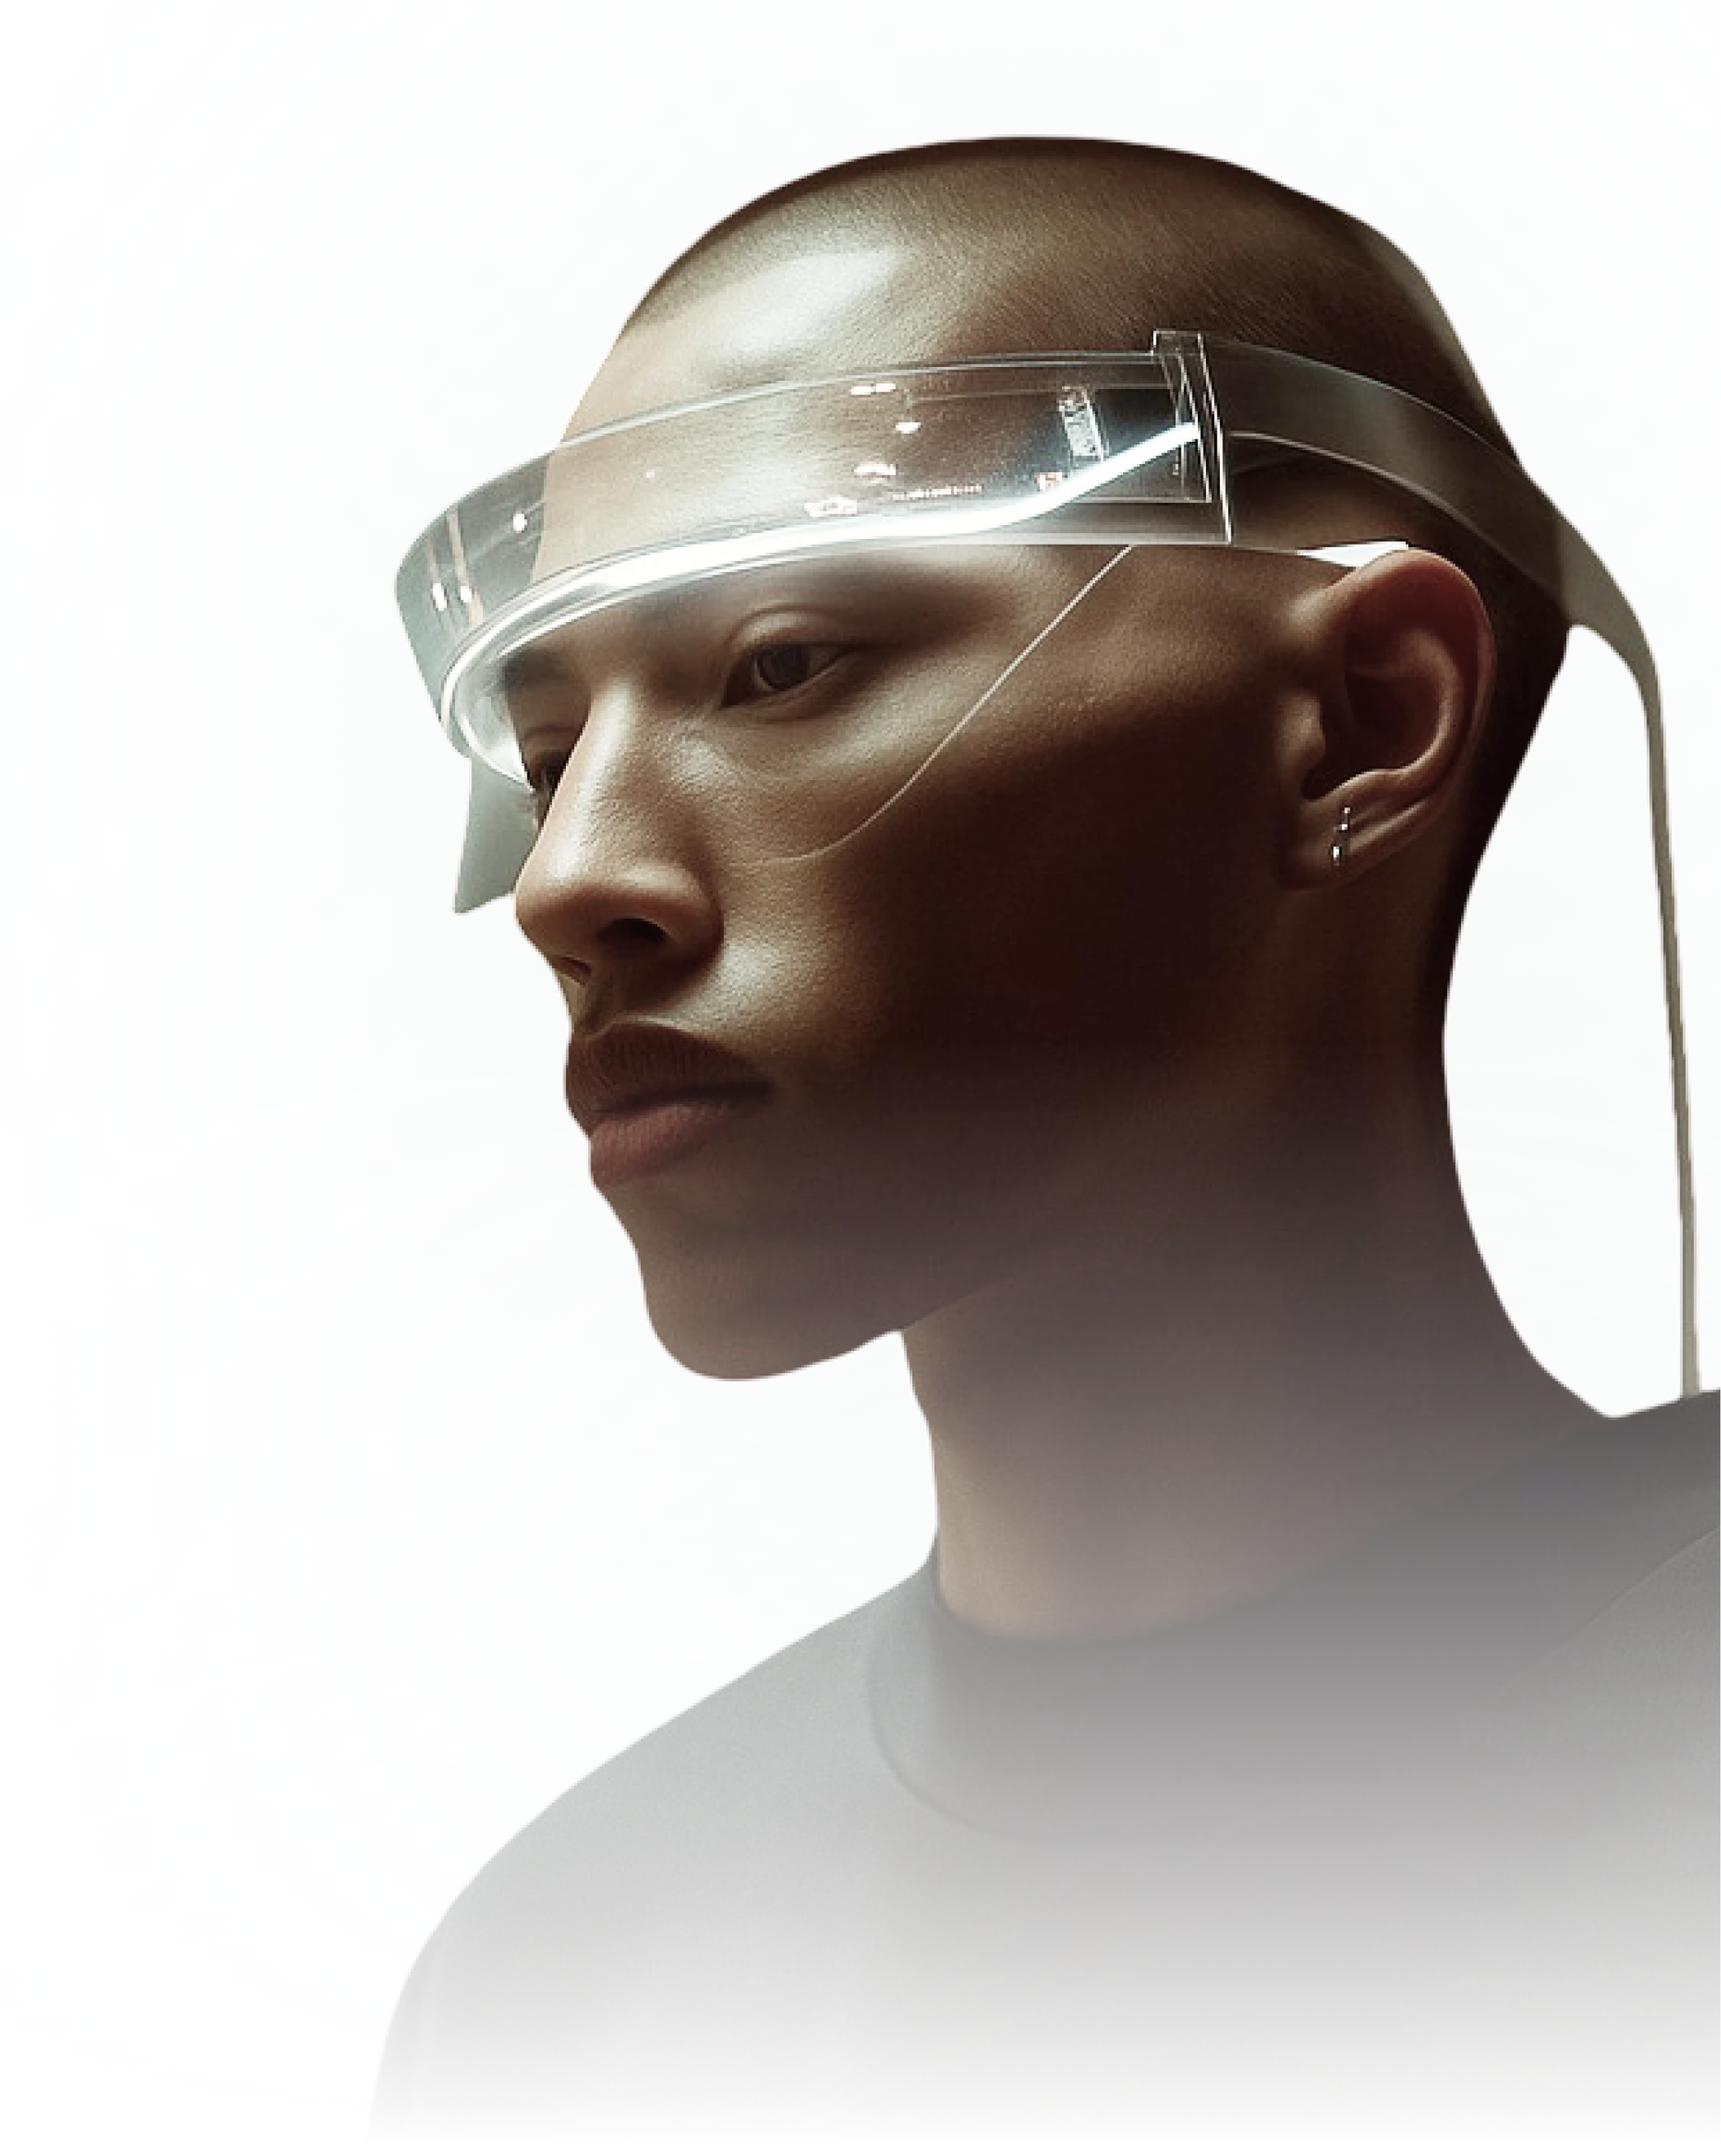
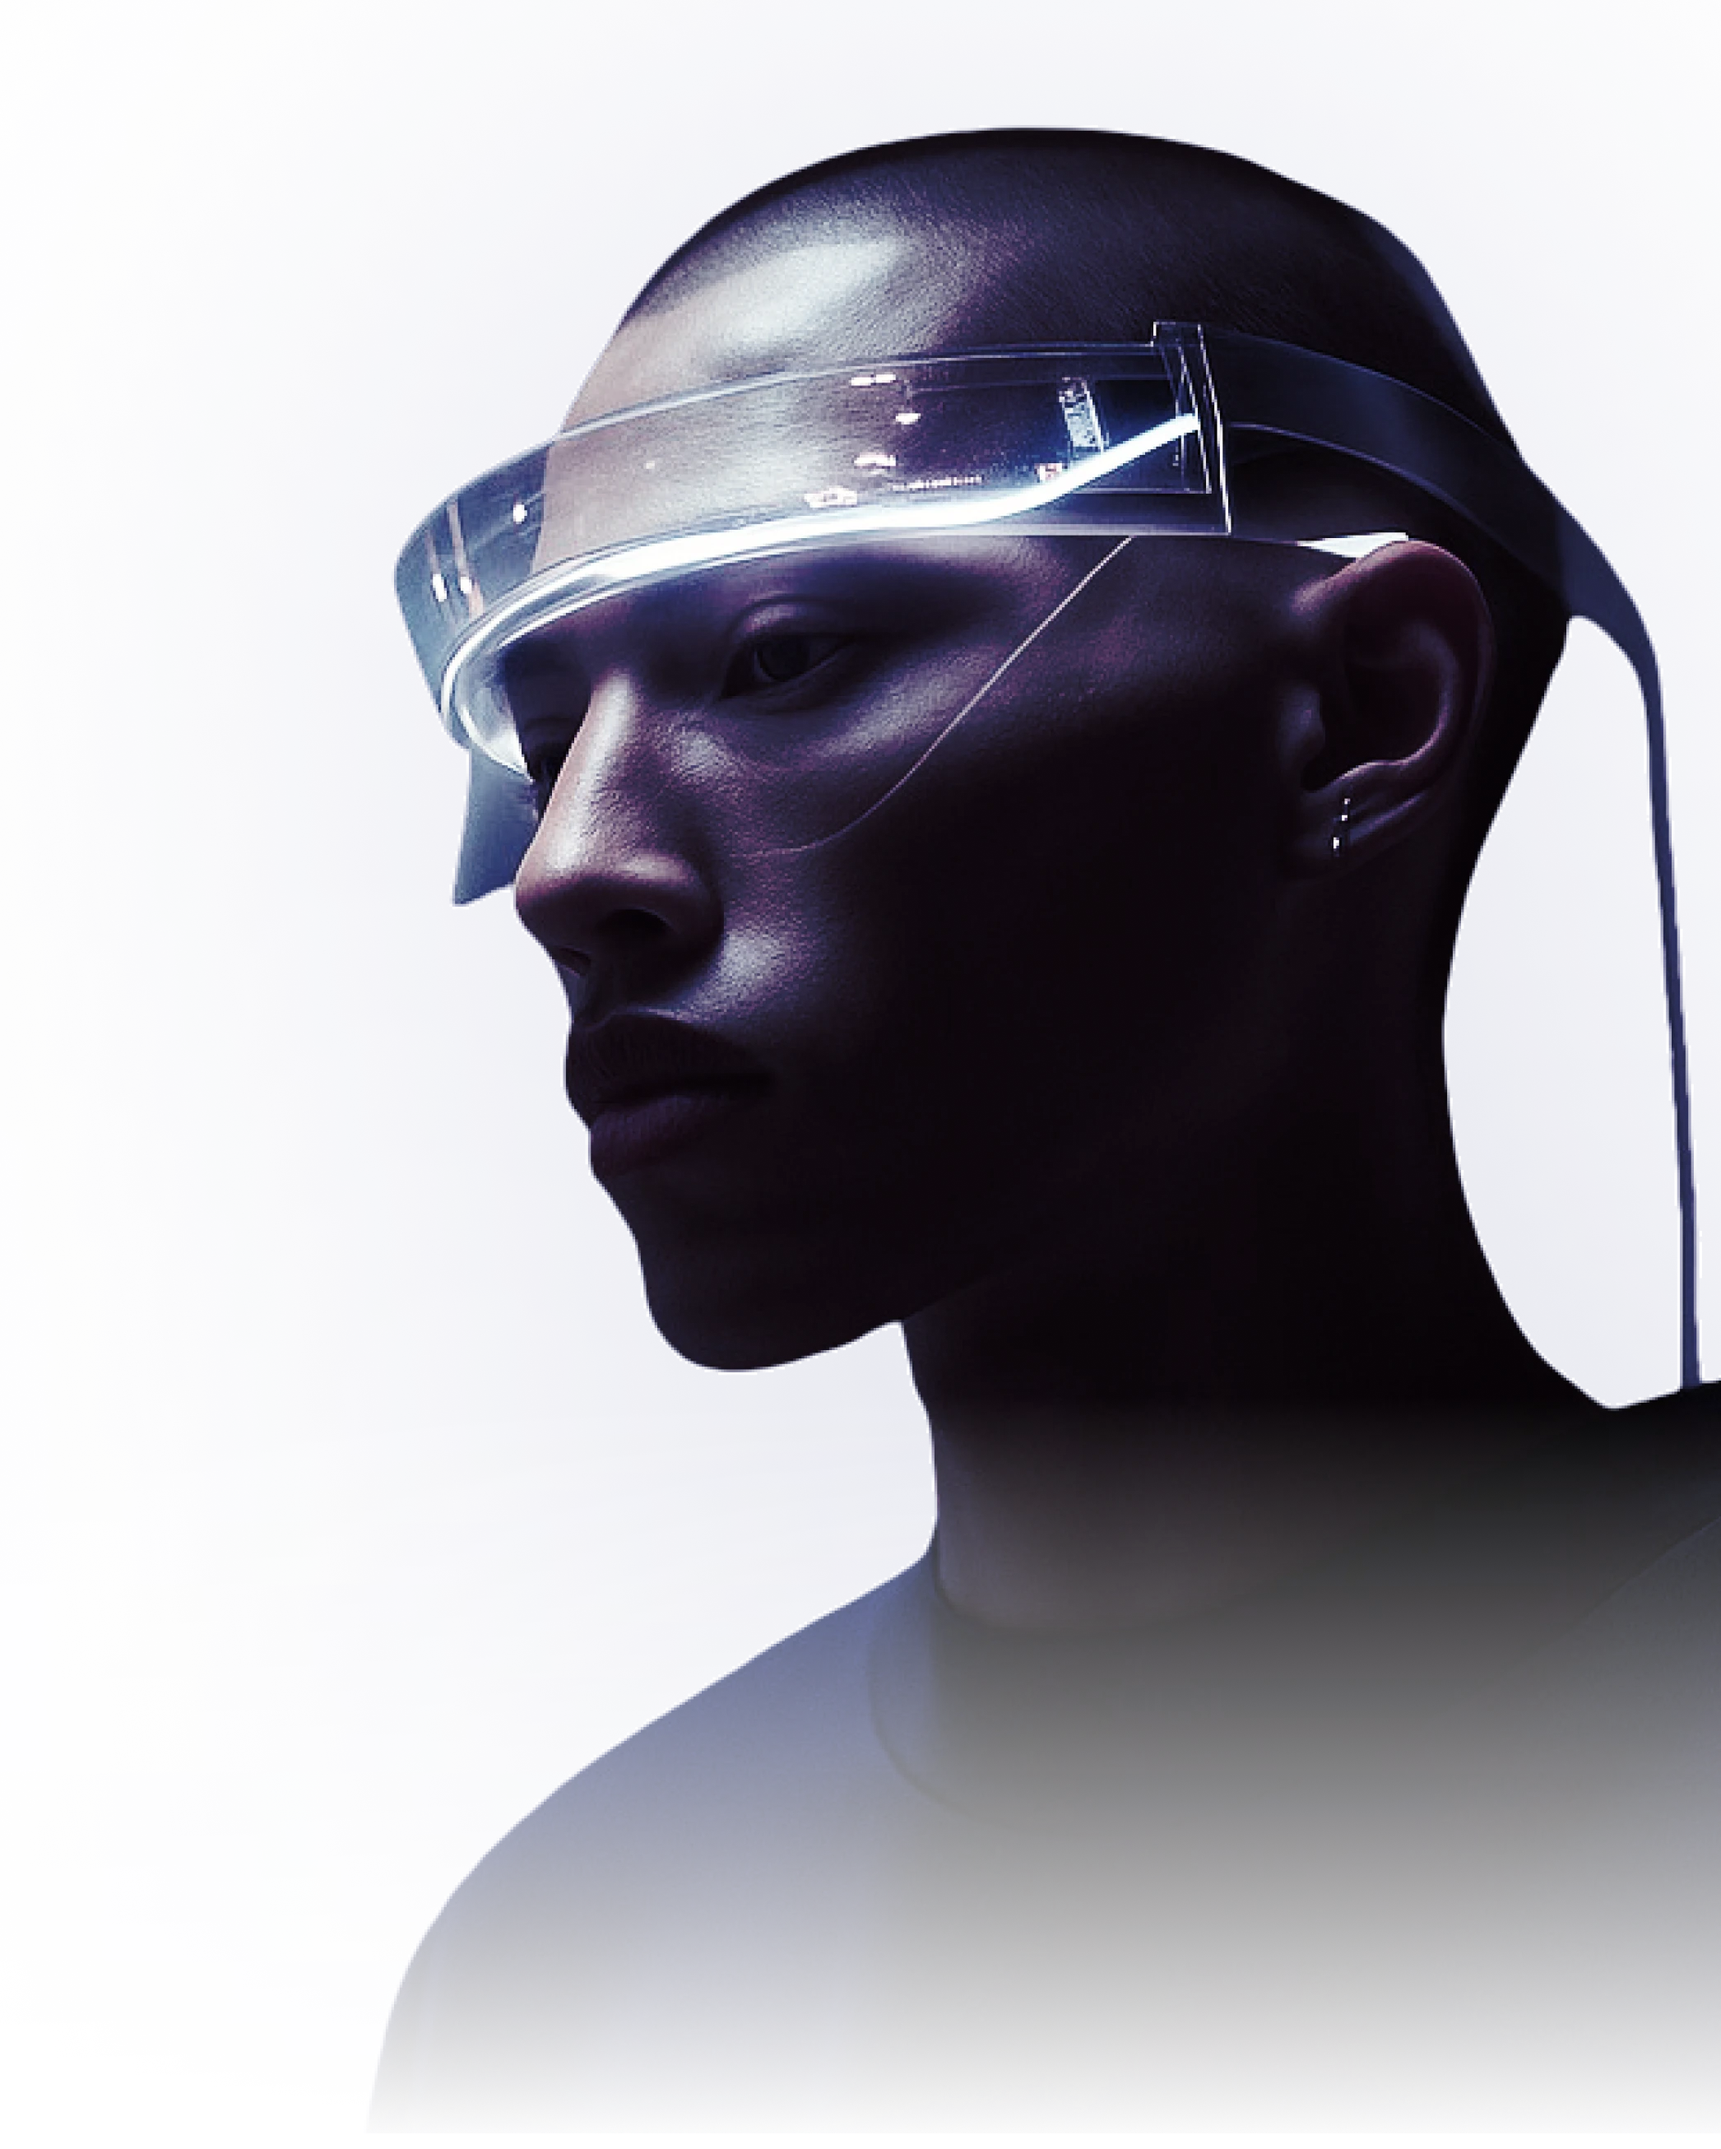
build: section outcomes, update respoansive: page orange

diff --git a/src/scss/_outcomes.scss b/src/scss/_outcomes.scss
@@ -1,0 +1,232 @@
+@use 'base';
+@use 'mixins';
+
+.section-outcomes {
+  background-color: #FF9C00;
+  padding-top: 53px;
+  padding-bottom: 100px;
+  @include mixins.respond(lg) {
+    padding-top: 32px;
+    padding-bottom: 50px;
+  }
+}
+
+.outcomes {
+  display: flex;
+  flex-direction: column;
+  gap: 80px;
+  @include mixins.respond(lg) {
+    gap: 40px;
+  }
+  @include mixins.respond(sm) {
+    gap: 32px;
+  }
+  .heading__h2 {
+    color: #FFF;
+    font-family: base.$font-primary;
+    font-size: 110px;
+    font-style: normal;
+    font-weight: 700;
+    line-height: 100%; /* 110px */
+    letter-spacing: -1.1px;
+    text-transform: uppercase;
+    margin-top: 34px;
+    @include mixins.respond(xl) {
+      font-size: 82px;
+    }
+    @include mixins.respond(lg) {
+      margin-top: 16px;
+    }
+    @include mixins.respond(sm) {
+      font-size: 40px;
+      letter-spacing: -0.6px;
+      margin-top: unset;
+      width: 100%;
+    }
+    &__accent {
+      color: #BC002C;
+    }
+    &__inner {
+      display: flex;
+      gap: 30px;
+      align-items: flex-end;
+      @include mixins.respond(sm) {
+        flex-direction: column-reverse;
+        align-items: flex-start;
+        gap: 8px;
+      }
+      .system__label {
+        margin-bottom: 26px;
+        @include mixins.respond(lg) {
+          margin-bottom: 16px;
+        }
+        @include mixins.respond(sm) {
+          margin-bottom: 0;
+        }
+      }
+    }
+  }
+  &__head {
+    position: relative;
+    z-index: 1;
+    &__wrap {
+      display: flex;
+      align-items: flex-start;
+      gap: 8px;
+      @include mixins.respond(sm) {
+        flex-direction: column-reverse;
+        align-items: flex-end;
+      }
+      .system__number {
+        margin-bottom: -34px;
+      }
+    }
+    &__ornament {
+      max-width: 400px;
+      width: 100%;
+
+      position: absolute;
+      top: -18px;
+      right: 0;
+      z-index: -1;
+
+      @include mixins.respond(sm) {
+        right: -89px;
+      }
+    }
+  }
+  &__list {
+    display: flex;
+    flex-direction: column;
+    gap: 16px;
+    position: relative;
+    z-index: 1;
+  }
+  &__item {
+    background-color: #FFF9EB;
+    padding: 32px;
+    display: flex;
+    align-items: center;
+    justify-content: space-between;
+    gap: 16px;
+    @include mixins.respond(lg) {
+      padding: 16px;
+    }
+    @include mixins.respond(sm) {
+      flex-direction: column;
+    }
+    &__content {
+      display: flex;
+      justify-content: space-between;
+      max-width: 1112px;
+      width: 100%;
+      @include mixins.respond(xl) {
+        max-width: 780px;
+      }
+      @include mixins.respond(lg) {
+        flex-direction: column;
+        gap: 8px;
+      }
+    }
+    &__subtext {
+      max-width: 912px;
+      display: flex;
+      justify-content: space-between;
+      align-items: center;
+      gap: 16px;
+      width: 100%;
+
+      @include mixins.respond(xl) {
+        max-width: 712px;
+      }
+      @include mixins.respond(lg) {
+        flex-direction: column;
+        align-items: flex-start;
+        gap: 0;
+      }
+    }
+    &__number {
+      color: #BC002C;
+      font-family: base.$font-primary;
+      font-size: 60px;
+      font-style: normal;
+      font-weight: 700;
+      line-height: 120%; /* 72px */
+      letter-spacing: -1.2px;
+
+      @include mixins.respond(xl) {
+        font-size: 48px;
+      }
+      @include mixins.respond(sm) {
+        font-size: 40px;
+        letter-spacing: -0.8px;
+      }
+    }
+    &__title {
+      color: #000;
+      font-family: base.$font-primary;
+      font-size: 60px;
+      font-style: normal;
+      font-weight: 700;
+      line-height: 100%; /* 60px */
+      letter-spacing: -0.6px;
+      text-transform: uppercase;
+      max-width: 340px;
+      width: 100%;
+
+      @include mixins.respond(xl) {
+        font-size: 48px;
+        max-width: 280px;
+      }
+      @include mixins.respond(lg) {
+        max-width: 100%;
+      }
+      @include mixins.respond(sm) {
+        font-size: 40px;
+        letter-spacing: -0.4px;
+      }
+    }
+    &__desc {
+      color: rgba(37, 3, 32, 0.80);
+      text-align: justify;
+      font-family: base.$font-base;
+      font-size: 20px;
+      font-style: normal;
+      font-weight: 400;
+      line-height: 160%; /* 32px */
+      max-width: 448px;
+      
+      @include mixins.respond(xl) {
+        max-width: 348px;
+        font-size: 16px;
+      }
+      @include mixins.respond(lg) {
+        max-width: 100%;
+      }
+      @include mixins.respond(sm) {
+        font-size: 14px;
+      }
+    }
+    &__link {
+      display: inline-flex;
+      justify-content: center;
+      align-items: center;
+      padding: 16px 23px;
+      border-radius: 100px;
+      background-color: #BC002C;
+      @include mixins.respond(xl) {
+        padding: 12px 18px;
+      }
+      @include mixins.respond(sm) {
+        width: 100%;
+      }
+      img {
+        max-width: 32px;
+        width: 100%;
+        @include mixins.respond(xl) {
+          max-width: 18px;
+        }
+      }
+    }
+  }
+}

diff --git a/src/scss/_system.scss b/src/scss/_system.scss
@@ -2,9 +2,13 @@
 @use 'mixins';
 
 .section-system {
-  background-color: #FFA100;
+  background-color: #FF9C00;
   padding-top: 104px;
   padding-bottom: 52px;
+  @include mixins.respond(lg) {
+    padding-top: 50px;
+    padding-bottom: 32px;
+  }
 }
 
 .system {
@@ -26,11 +30,17 @@
     display: flex;
     gap: 4px;
     align-items: center;
+    @include mixins.respond(sm) {
+      font-size: 16px;
+    }
     img {
       max-width: 14px;
       max-height: 14px;
       width: 100%;
       height: 100%;
+      @include mixins.respond(sm) {
+        max-width: 10px;
+      }
     }
   }
   .heading__h2 {
@@ -43,14 +53,14 @@
     letter-spacing: -1.1px;
     text-transform: uppercase;
     @include mixins.respond(xl) {
-      font-size: 86px;
+      font-size: 82px;
     }
     @include mixins.respond(lg) {
       order: 3;
       letter-spacing: 0;
     }
     @include mixins.respond(sm) {
-      font-size: 42px;
+      font-size: 40px;
     }
     &__accent {
       color: #BC002C;
@@ -83,6 +93,9 @@
       gap: 42px;
       font-size: 32px;
     }
+    @include mixins.respond(lg) {
+      font-size: 24px;
+    }
     img {
       max-width: 24px;
       max-height: 24px;
@@ -98,7 +111,7 @@
     justify-content: space-between;
     align-items: flex-start;
     @include mixins.respond(lg) {
-      flex-direction: column;
+      flex-wrap: wrap;
       gap: 16px;
     }
   }
@@ -126,12 +139,10 @@
     }
     @include mixins.respond(sm) {
       gap: 16px;
+      max-width: 270px;
     }
     img {
       width: 100%;
-      @include mixins.respond(sm) {
-        border-radius: 16px;
-      }
     }
     &__title {
       color: #FFF;
@@ -162,13 +173,8 @@
       right: -72px;
       transform: translateX(72px);
       @include mixins.respond(sm) {
-        position: relative;
-        top: unset;
-        right: unset;
+        right: -82px;
         transform: unset;
-        max-width: 100%;
-        border-radius: 18px;
-        
       }
     }
     &__subtext {
@@ -236,6 +242,9 @@
     border-radius: 100px;
     border: 4px solid #FFF;
     background-color: #BC002C;
+    @include mixins.respond(sm) {
+      width: 100%;
+    }
     img {
       max-width: 18px;
       max-height: 18px;

diff --git a/src/scss/_blue-hero.scss b/src/scss/_blue-hero.scss
@@ -281,7 +281,7 @@
         display: none;
         @include mixins.respond(lg) {
           display: inline-block;
-          top: -55px;
+          top: -35px;
           right: -55px;
         }
 

diff --git a/src/scss/style.scss b/src/scss/style.scss
@@ -25,6 +25,7 @@
 
 @use 'orange-hero';
 @use 'system';
+@use 'outcomes';
 
 @use 'footer';
 
